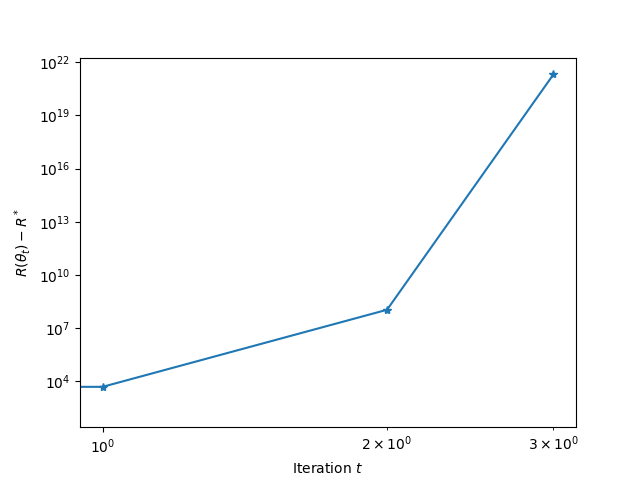
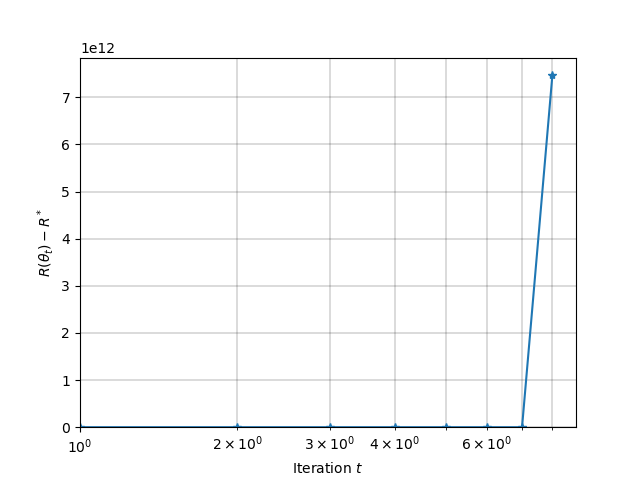
Batch training and shuffle data samples

diff --git a/utils.py b/utils.py
@@ -111,7 +111,7 @@ class Multi_Layer_Perceptron(nn.Sequential):
                 layer.bias.data.uniform_(-stdv, stdv)
 
 class GD(torch.optim.Optimizer):
-    def __init__(self, params, lr=0.01):
+    def __init__(self, params, lr=0.001):
         super(GD, self).__init__(params, dict(lr=lr))
 
     def step(self):
@@ -121,7 +121,7 @@ class GD(torch.optim.Optimizer):
                     grad = p.grad.data
                     p.data -= group['lr'] * grad
 
-def train(model, input_data, output_data, lossFct = nn.MSELoss(), optimizer = 'SGD', lr=0.001, epochs = 20, return_vals = False, init_norm = None, save = True, debug = False, savename='model.pt'):
+def train(model, input_data, output_data, lossFct = nn.MSELoss(), optimizer = 'SGD', lr=0.001, epochs = 20, batch_size=None, return_vals = False, init_norm = None, save = True, debug = False, savename='model.pt'):
 
     if optimizer == 'SGD':
         optimizer = torch.optim.SGD(model.parameters(), lr=lr)
@@ -136,17 +136,28 @@ def train(model, input_data, output_data, lossFct = nn.MSELoss(), optimizer = 'S
     if return_vals:
         errors = np.zeros(epochs)
 
+    n = len(input_data)
+    if batch_size is not None:
+        n_batches = n//batch_size
     for i in range(epochs):
-        y_pred = model(input_data).squeeze_()
-        loss = lossFct(y_pred, output_data)
-
+        rand_idx = torch.randperm(n) # permutation of data samples
+        if batch_size is not None:
+            loss = 0
+            for t in range(n_batches):
+                idx = rand_idx[t*batch_size:(t+1)*batch_size]
+                y_pred = model(input_data[idx,:]).squeeze_()
+                loss += lossFct(y_pred, output_data[idx])
+        else:
+            y_pred = model(input_data[rand_idx,:]).squeeze_()
+            loss = lossFct(y_pred, output_data[rand_idx])
+            
         if return_vals:
             errors[i] = loss.item()
 
-        #if math.isnan(loss.item()):
-            #print(f"Epoch: {i+1}   Loss: {loss.item()}")
-            #break
-            
+            #if math.isnan(loss.item()):
+                #print(f"Epoch: {i+1}   Loss: {loss.item()}")
+                #break
+
         optimizer.zero_grad()
         loss.backward()
         optimizer.step()
@@ -154,7 +165,7 @@ def train(model, input_data, output_data, lossFct = nn.MSELoss(), optimizer = 'S
         if debug:
             if (i+1)%(epochs/debug) == 0:
                 print(f"Epoch: {i+1}   Loss: {loss.item():.3e}")
-        
+
     if save:
         torch.save(model.state_dict(), DIRPATH+savename)
     

diff --git a/paper_like.py b/paper_like.py
@@ -2,13 +2,13 @@ import torch
 import numpy as np
 import matplotlib.pyplot as plt
 
-from utils_Sam import *
+from utils import *
 
 np.random.seed(42)
 
 ### Parameters
 p = 100
-n = 100
+n = 1500
 sigma2 = 2
 
 lambda_ = 1e-3
@@ -49,6 +49,7 @@ errors_MLP = train(MLP,
       lossFct = nn.MSELoss(),
       optimizer=optimizer,
       epochs=epochs,
+      batch_size=None,
       return_vals=True,
       init_norm = None,
       lr = 0.001)
